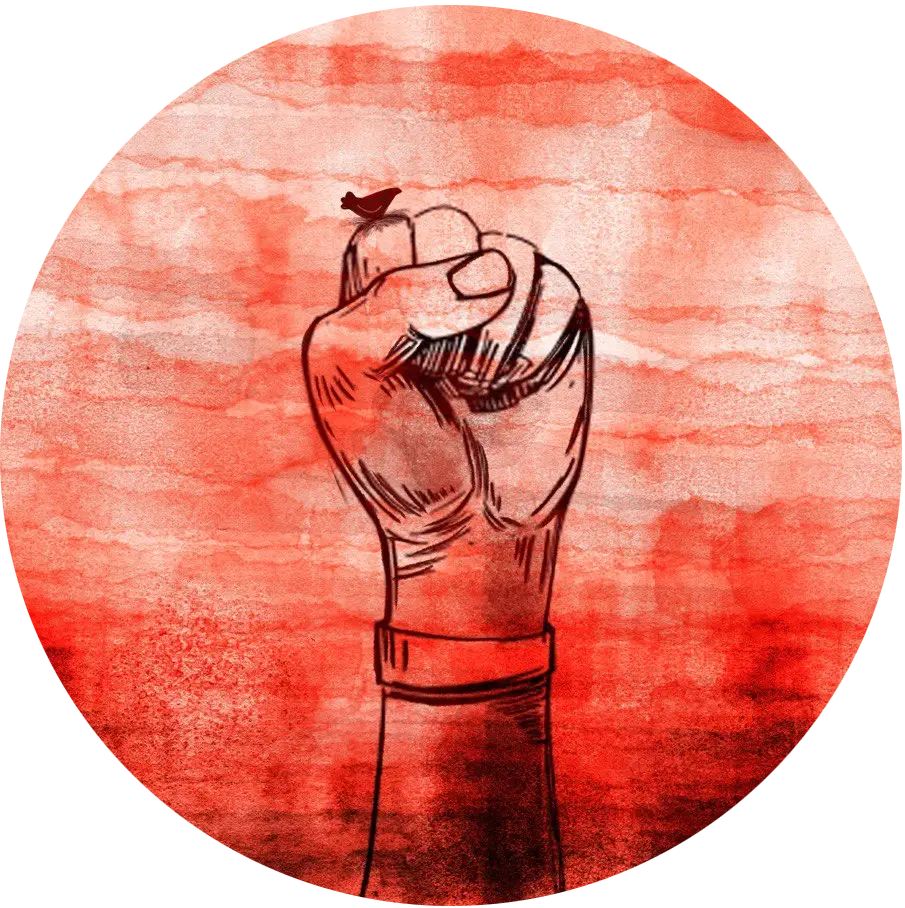
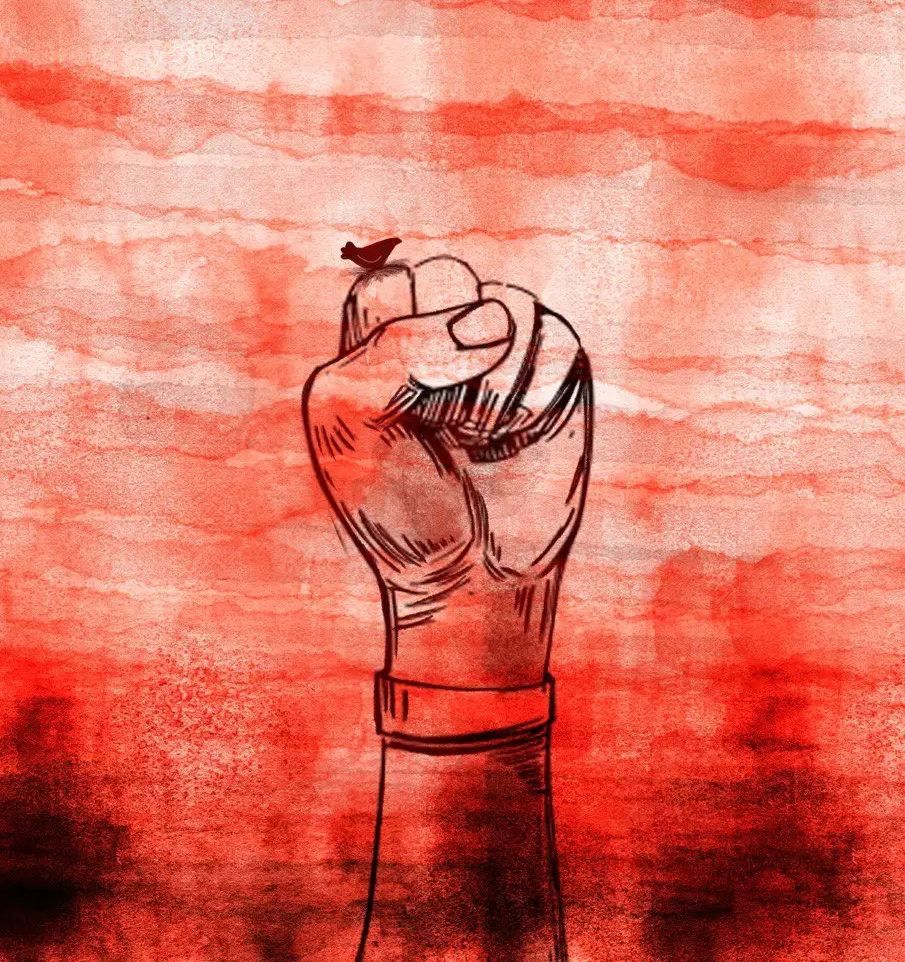
updates

diff --git a/public/index.html b/public/index.html
@@ -8,7 +8,7 @@
   <meta charset="utf-8" />
 
   <link rel="icon"
-    href="https://ik.imagekit.io/hcdblkujo/meta_icon.webp?ik-sdk-version=javascript-1.4.3&updatedAt=1669933991432"
+    href="https://ik.imagekit.io/hcdblkujo/meta.jpeg"
     type="image/x-icon" />
   <meta name="viewport" content="width=device-width, initial-scale=1" />
   <meta name="theme-color" content="#000000" />
@@ -21,7 +21,7 @@
   <meta itemprop="name" content="Women Life Freedom Revolution">
   <meta itemprop="description" content="You can help Iranians in their fight">
   <meta itemprop="image"
-    content="https://ik.imagekit.io/hcdblkujo/meta_icon.webp?ik-sdk-version=javascript-1.4.3&updatedAt=1669933991432">
+    content="https://ik.imagekit.io/hcdblkujo/meta.jpeg">
 
   <!-- Facebook Meta Tags -->
   <meta property="og:url" content="https://iran2022revolution.com/">
@@ -39,7 +39,7 @@
   <meta name="twitter:title" content="Women Life Freedom Revolution">
   <meta name="twitter:description" content="You can help Iranians in their fight">
   <meta name="twitter:image"
-    content="https://ik.imagekit.io/hcdblkujo/meta_icon.webp?ik-sdk-version=javascript-1.4.3&updatedAt=1669933991432" />
+    content="https://ik.imagekit.io/hcdblkujo/meta.jpeg" />
 
 <body>
   <noscript>You need to enable JavaScript to run this app.</noscript>
